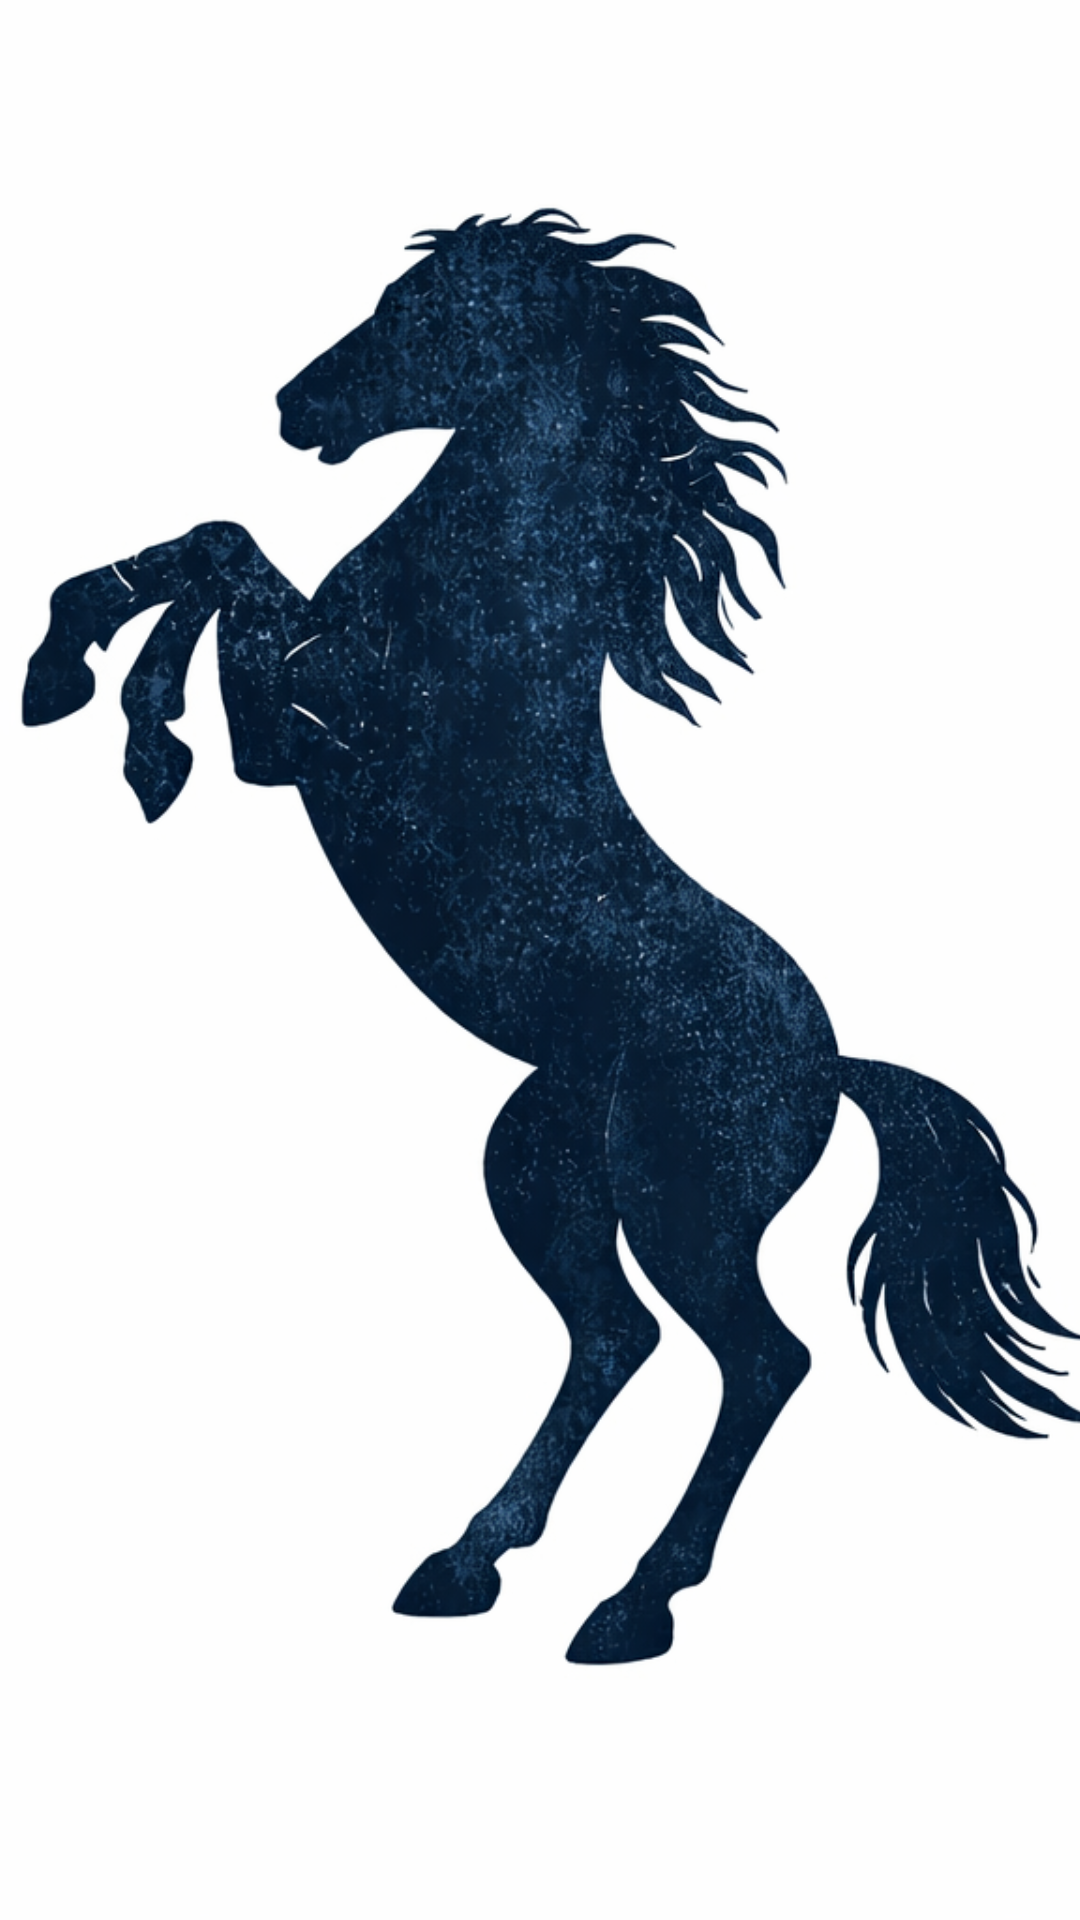
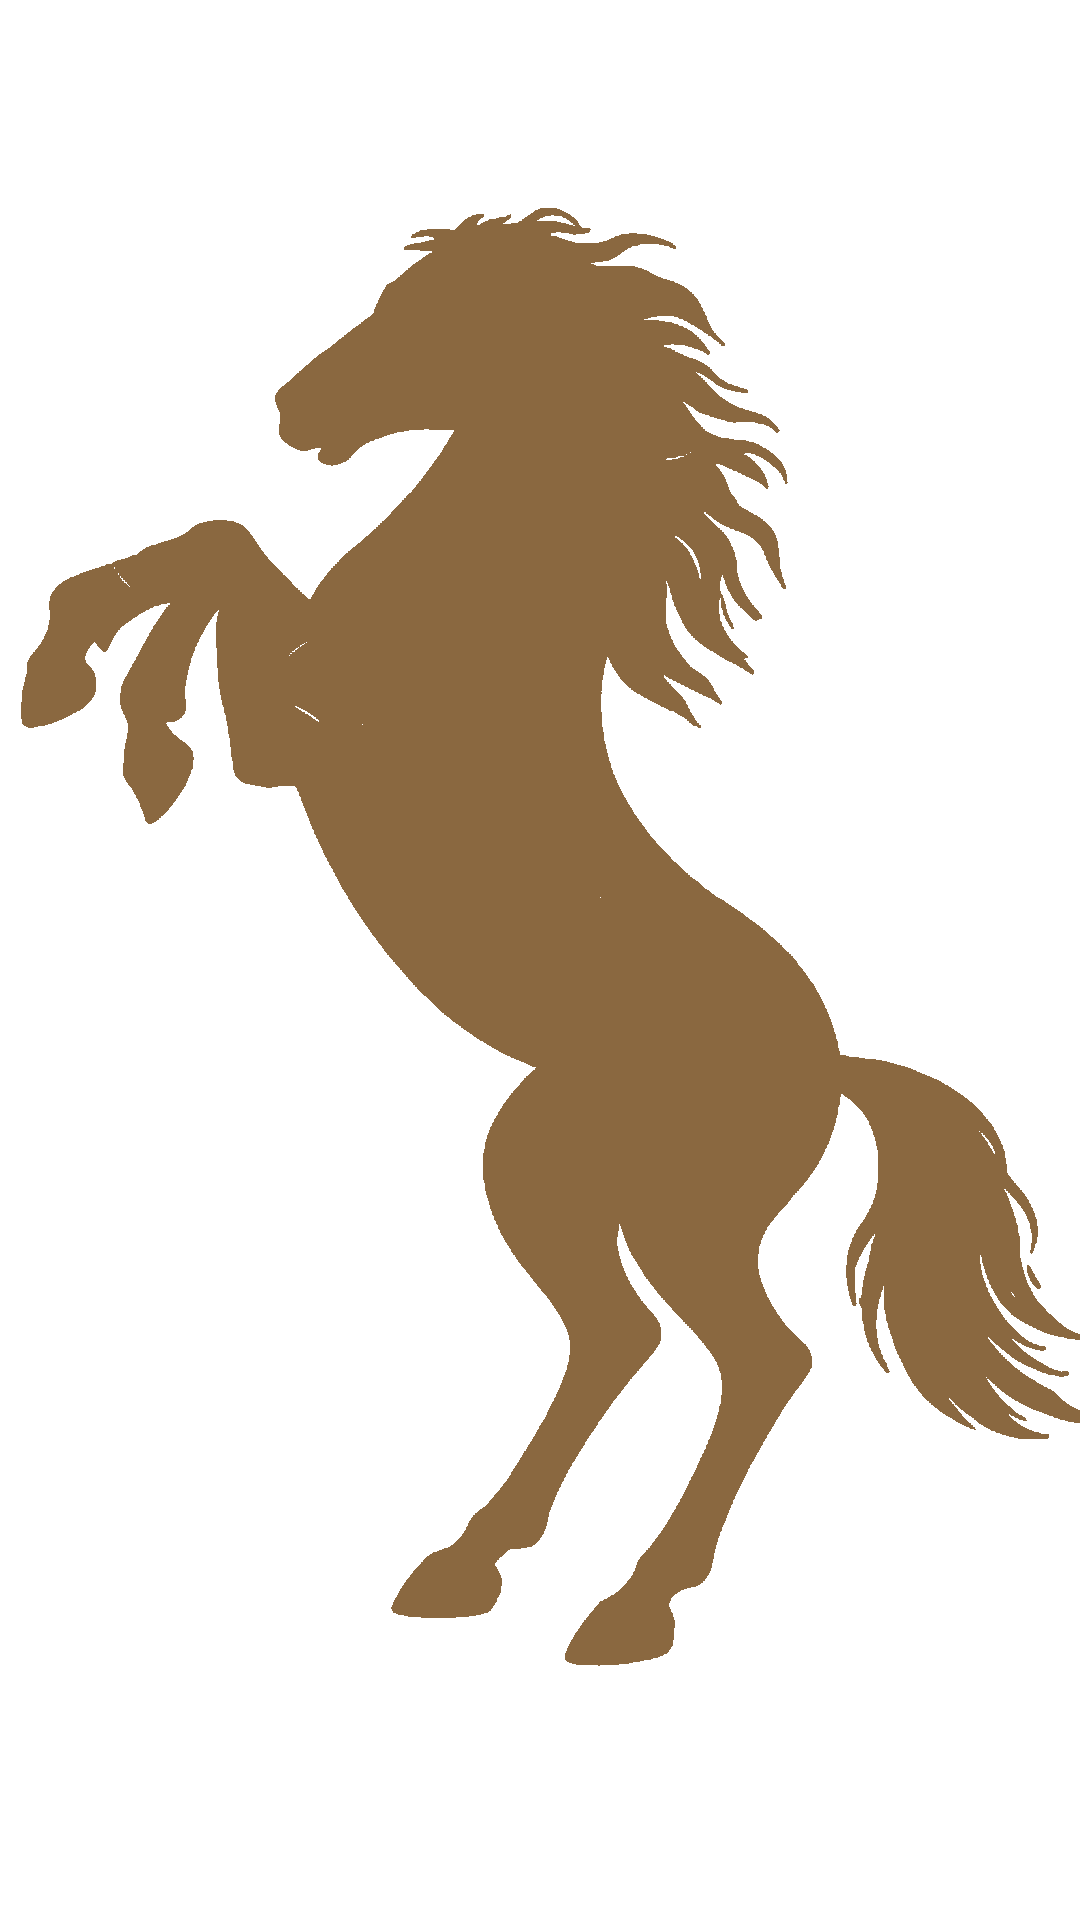
Replace horse with golden brown PNG (transparent bg)

Changed region(s): [[0.0, 0.0938, 1.0, 0.875]]

diff --git a/index.html b/index.html
@@ -18,15 +18,10 @@
     flex-direction: column;
     align-items: center;
   }
-  .logo-wrap {
-    mix-blend-mode: multiply;
-  }
   header img.logo {
     height: 200px;
     width: auto;
     margin-bottom: 0;
-    display: block;
-    filter: brightness(0) saturate(100%) invert(47%) sepia(37%) saturate(520%) hue-rotate(352deg) brightness(88%);
   }
   header .divider {
     width: 260px;
@@ -662,7 +657,7 @@
 </div>
 
 <header>
-  <div class="logo-wrap"><img class="logo" src="country_horse.png" alt="Country Horse"></div>
+  <img class="logo" src="country_horse.png" alt="Country Horse">
   <div class="divider"></div>
   <h1>Country</h1>
   <p>Home &amp; Deco</p>
